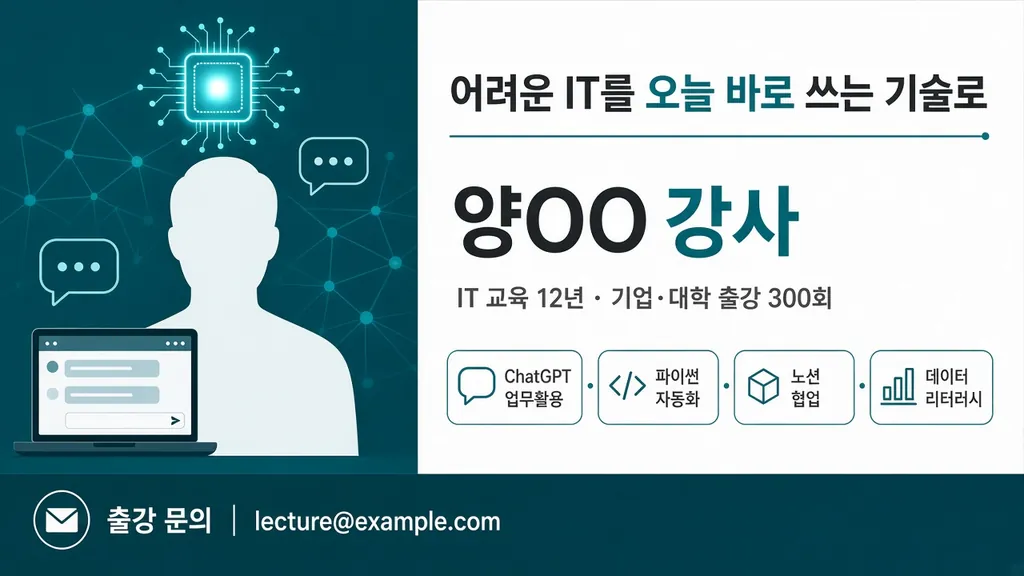
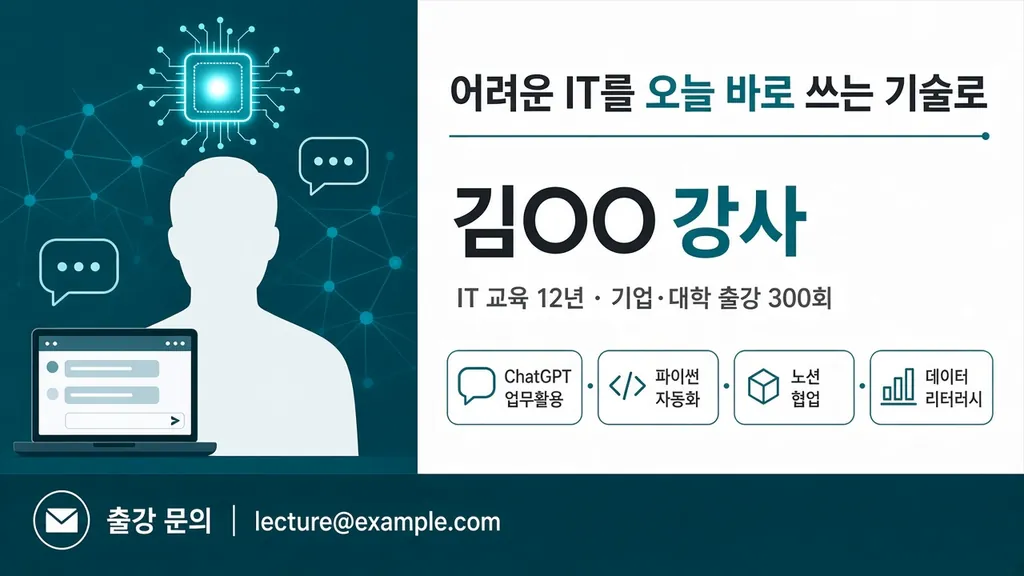
fix: 강사 프로필 예시 이름을 김OO 강사로 변경, 프로필 예시 이미지 교체

diff --git a/src/components/builder/Steps.tsx b/src/components/builder/Steps.tsx
@@ -91,7 +91,7 @@ const META: Record<InfoKey, { label: string; placeholder: string; note?: string 
   schedule: { label: "일정 · 기간", placeholder: "예: 11월 10일(화) 시작 · 매주 화 20:00 (4주)", note: "AI 예시 날짜는 가상이에요. 요일은 실제 달력 기준." },
   place: { label: "장소 · 플랫폼", placeholder: "예: Zoom 실시간 라이브 / 강남 OO교육센터" },
   price: { label: "수강료 · 혜택", placeholder: "예: 얼리버드 99,000원 (정가 149,000원)" },
-  instructor: { label: "강사명", placeholder: "예: 양OO 강사" },
+  instructor: { label: "강사명", placeholder: "예: 김OO 강사" },
   bio: { label: "강사 한 줄 소개", placeholder: "예: IT 교육 12년 · 기업·대학 출강 300회" },
   cta: { label: "신청 안내 (CTA)", placeholder: "예: 프로필 링크에서 신청 / bit.ly/내강의" },
 };

diff --git a/src/data/examples.ts b/src/data/examples.ts
@@ -211,7 +211,7 @@ export const EXAMPLES: Example[] = [
       info: {
         title: { mode: "omit" },
         subtitle: { mode: "exact", value: "어려운 IT를 오늘 바로 쓰는 기술로" },
-        instructor: { mode: "exact", value: "양OO 강사" },
+        instructor: { mode: "exact", value: "김OO 강사" },
         bio: { mode: "exact", value: "IT 교육 12년 · 기업·대학 출강 300회" },
         cta: { mode: "exact", value: "출강 문의 lecture@example.com" },
       },
